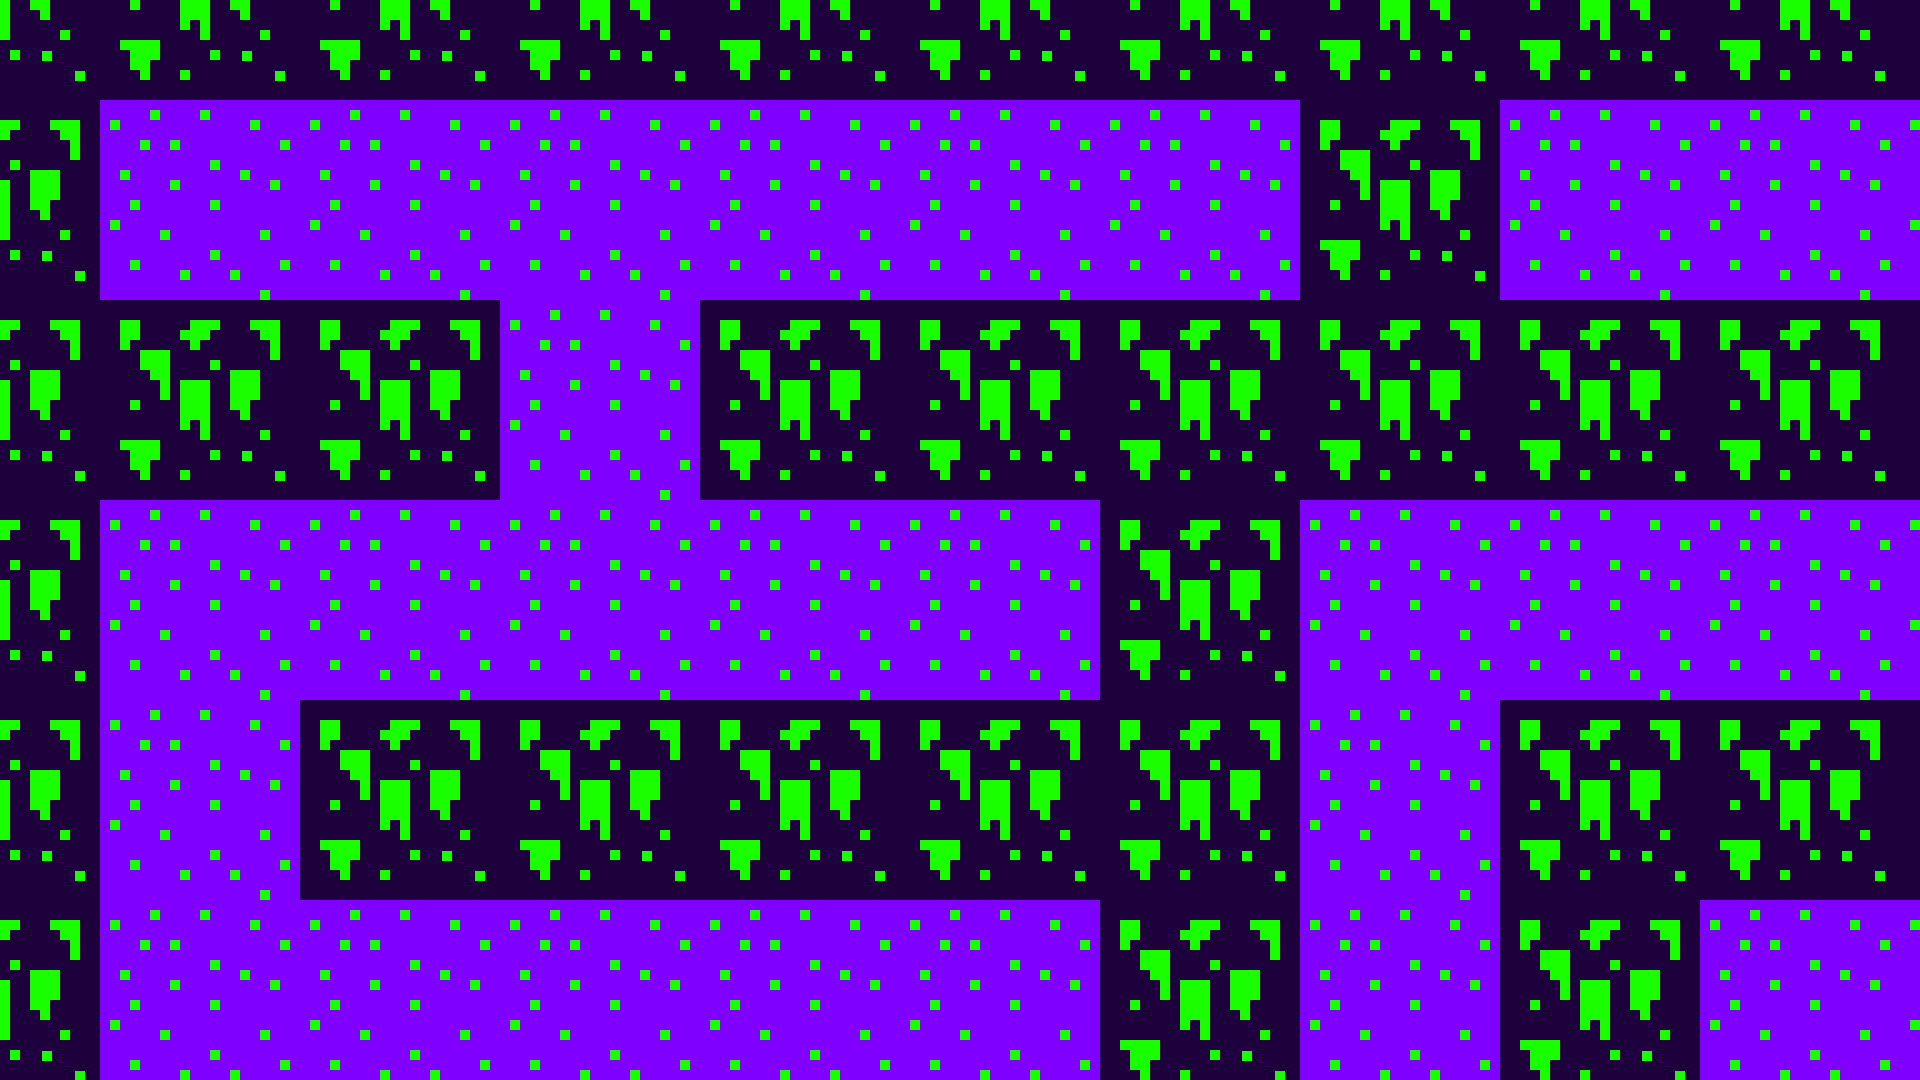
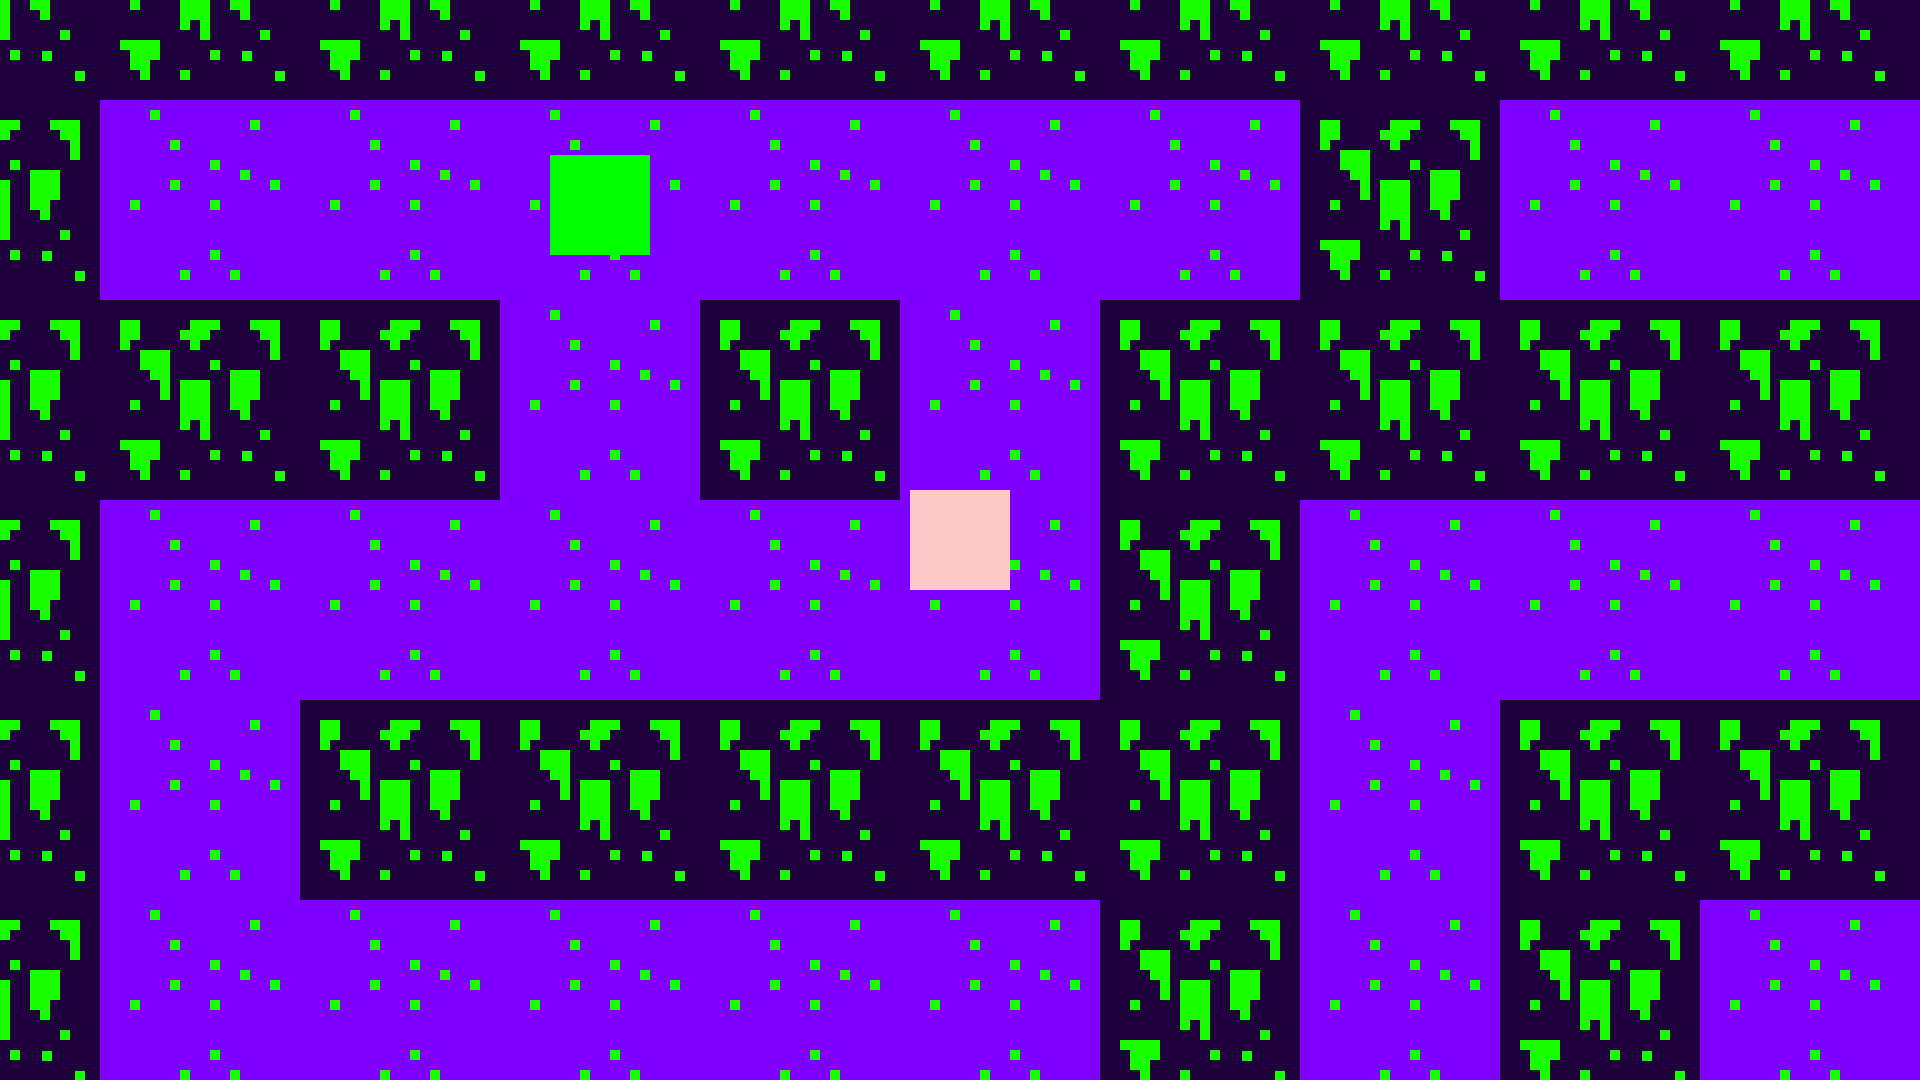
Specification 7-12

diff --git a/main.py b/main.py
@@ -1,17 +1,161 @@
 import pygame #Import the library
+from random import choice
 
 pygame.init() #Initialize pygame
 screen = pygame.display.set_mode((0, 0), pygame.FULLSCREEN) #Set the Display to the full screen
 running = True
 
+def exists(neighbourList, x, y, direction):
+    if 0 <= x < len(tileMap): #Perform a validation check to see if its properly within the grid
+        if 0 <= y < len(tileMap[x]):
+            if tileMap[x][y] == 0: #Check its neighbour is a path
+                neighbourList.append((x, y, direction)) #Add it to the list
+
+class Node:
+    def __init__(self, x, y):
+        self.id = (x, y) #Each Node has a unique identifier
+        self.neighbours = []
+        exists(self.neighbours, x + 1, y, "up") #Iterate though each of the 4 neighbours
+        exists(self.neighbours, x - 1, y, "down")
+        exists(self.neighbours, x, y + 1, "right")
+        exists(self.neighbours, x, y - 1, "left")
+
+    def giveNeighour(self):
+        return choice(self.neighbours)[2] #Returns the direction that is possible
+
+class Graph:
+    def __init__(self): #The graph acts as a collection of nodes
+        self.graph = []
+
+    def addNode(self, node): #Add nodes to the graph
+        self.graph.append(node)
+
+    def findNode(self, nodeID): #Locate node within the graph
+        for node in self.graph:
+            if node.id == nodeID:
+                return node
+
 class Tile(pygame.sprite.Sprite): #Create a Tile Object that inherits from pygame sprites
-    def __init__(self, isWall, x, y, filePath): #instantiate the class
+    def __init__(self, x, y, filePath): #instantiate the class
         super().__init__() #Inherits from the sprite object
         self.image = pygame.image.load(filePath).convert_alpha() #Creates a rectangular tile
         self.rect = self.image.get_rect(center = placeTile(x, y)) #Places the rectangle at (x, y)
+        self.velocity = 5
+
+    def update(self, dx, dy):
+        self.rect.x -= dx * self.velocity #updates x position
+        self.rect.y += dy * self.velocity #updates y position
 
 def placeTile(x, y):
     return (200 * x, 200 * y) #Adding one to x will place it 200 away (length of one tile)
+
+class Player(pygame.sprite.Sprite):
+    def __init__(self, x, y):
+        super().__init__()
+        self.image = pygame.Surface((100, 100))
+        self.image.fill((255, 200, 200))
+        self.rect = self.image.get_rect(center = (x, y))
+        self.isAttacking = False
+
+    def attack(self):
+        if not(self.isAttacking): #If we are not attacking already
+            self.attackBox = AttackBox(*self.rect.midleft) #Create an AttackBox
+            self.isAttacking = True #Now we are attacking
+            attackBoxGroup.add(self.attackBox)
+
+    def update(self):
+        if self.isAttacking: #If we are in an attack (the box exists)
+            flag = self.attackBox.update() #Update the attack box and return the state
+            if flag: #If we are given True, that means we need to kill the attack box
+                attackBoxGroup.remove(self.attackBox) #Delete the Box
+                del self.attackBox #Kills the attack box
+                self.isAttacking = False #Set the attack to False (allowing us to attack again)
+
+class AttackBox(pygame.sprite.Sprite): #Create an AttackBox, any enemy that collides with this will die
+    def __init__(self, x, y):
+        super().__init__()
+        self.image = pygame.Surface((20, 100))
+        self.image.fill((255, 255, 255)) #Fill for debugging purposes
+        self.rect = self.image.get_rect(midright = (x, y))
+        self.counter = 0 #Have a counter to check it in for 5 frames
+
+    def update(self):
+        self.counter += 1 #Increment the counter
+        if self.counter == 5: #When it reaches 5 (5 frames have passed)
+            return True #Tell the Player object to kill the attack box
+        else:
+            return False #Tell the Player not to kill the attack box
+
+class Enemy(pygame.sprite.Sprite):
+    def __init__(self, x, y, nodeID): #Instantiate Enemy Object
+        super().__init__()
+        self.image = pygame.Surface((100, 100))
+        self.image.fill((0, 255, 0))
+        self.rect = self.image.get_rect(center = (x, y))
+        self.velocity = 5
+        self.currentNode = nodeID
+        self.targetX = 0
+        self.targetY = 0
+        self.moved = False
+        self.move()
+
+    def update(self, dx, dy):
+        self.rect.x -= dx * self.velocity #updates x position
+        self.rect.y += dy * self.velocity #updates y position
+
+    def move(self):
+        if not(self.moved):
+            n = graph.findNode(self.currentNode) #Get the current node that the enemy is at
+            direction = n.giveNeighour() #Find next direction to travel in
+            if direction == "up":
+                self.targetX = -200 #Check each direction and set the target accordingly
+                self.currentNode = (self.currentNode[0] + 1, self.currentNode[1])
+            elif direction == "down":
+                self.targetX = 200
+                self.currentNode = (self.currentNode[0] - 1, self.currentNode[1])
+            elif direction == "right":
+                self.targetY = -200
+                self.currentNode = (self.currentNode[0], self.currentNode[1] + 1)
+            elif direction == "left":
+                self.targetY = 200
+                self.currentNode = (self.currentNode[0], self.currentNode[1] - 1) 
+
+            self.moved = True
+
+    def update2(self):
+        if self.targetX > 0: #Use this to travel towards the target position
+            self.rect.x -= 5
+            self.targetX -= 5
+        elif self.targetX < 0:
+            self.rect.x += 5
+            self.targetX += 5
+        elif self.targetY > 0:
+            self.rect.y -= 5
+            self.targetY -= 5
+        elif self.targetY < 0:
+            self.rect.y += 5
+            self.targetY += 5
+
+        if self.targetX == 0 and self.targetY == 0 and self.moved: #If we are at the target position
+            self.moved = False #Then find next node to travel to
+            self.move()
+
+def move(keys, key, x, y):
+    if keys[key]: #Check if key has been pressed
+        wallGroup.update(x, y) #Move the screen around the player
+        pathGroup.update(x, y)
+        enemyGroup.update(x, y)
+        if pygame.sprite.groupcollide(playerGroup, wallGroup, False, False):
+            wallGroup.update(-x, -y) #Move the screen back
+            pathGroup.update(-x, -y)
+            enemyGroup.update(-x, -y)
+'''
+def getSprites(sheet, x, y, width, height):
+    surface = pygame.Surface((width, height), pygame.SRCALPHA)
+    surface.blit(sheet, (0, 0), area=(x, y, width, height))
+
+    return surface
+'''
 
 tileMap = [
   [1, 1, 1, 1, 1, 1, 1, 1, 1, 1, 1, 1, 1, 1, 1, 1, 1, 1, 1, 1],
@@ -19,7 +163,7 @@ tileMap = [
   [1, 0, 1, 0, 1, 0, 1, 1, 1, 0, 1, 1, 0, 1, 0, 1, 0, 1, 0, 1],
   [1, 0, 0, 0, 1, 0, 1, 0, 0, 0, 0, 1, 0, 1, 0, 1, 0, 1, 0, 1],
   [1, 0, 1, 0, 1, 0, 1, 1, 0, 1, 0, 1, 0, 1, 0, 1, 1, 1, 0, 1],
-  [1, 0, 1, 0, 1, 0, 0, 1, 1, 1, 0, 1, 1, 0, 0, 1, 0, 0, 0, 1],
+  [1, 0, 0, 0, 1, 0, 0, 1, 1, 1, 0, 1, 1, 0, 0, 1, 0, 0, 0, 1],
   [1, 0, 1, 1, 1, 1, 0, 0, 0, 0, 0, 0, 1, 0, 1, 1, 0, 1, 0, 1],
   [1, 1, 1, 0, 0, 0, 1, 1, 1, 0, 1, 0, 0, 0, 0, 0, 0, 1, 0, 1],
   [1, 0, 1, 0, 1, 1, 1, 0, 1, 0, 1, 1, 0, 1, 1, 1, 1, 1, 0, 1],
@@ -38,19 +182,50 @@ tileMap = [
 
 wallGroup = pygame.sprite.Group() #Create sprite groups
 pathGroup = pygame.sprite.Group()
+enemyGroup = pygame.sprite.Group()
+playerGroup = pygame.sprite.GroupSingle()
+attackBoxGroup = pygame.sprite.GroupSingle()
+graph = Graph()
+
+#sheet = pygame.image.load("Textures\Slime Hill\Character\playerCharacter.png").convert_alpha()
+
+#playerImage = getSprites(sheet, 200, 0, 140, 190) 
 
 for row in range(len(tileMap)): #Iterate each row
     for column in range(len(tileMap[row])): #Iterate each column
         if tileMap[row][column] == 1: #Check if its a wall
-            wallGroup.add(Tile(tileMap[row][column], row, column, "Textures/Slime Hill/Biome/wall.png")) #Add a wall at that position to the wall group
+            wallGroup.add(Tile(row, column, "Textures/Slime Hill/Biome/wall.png")) #Add a wall at that position to the wall group
         else:
-            pathGroup.add(Tile(tileMap[row][column], row, column, "Textures/Slime Hill/Biome/floor.png")) #Else add a path at that position
+            graph.addNode(Node(row, column))
+            pathGroup.add(Tile(row, column, "Textures/Slime Hill/Biome/floor.png")) #Else add a path at that position
+
+player = Player(960, 540) 
+playerGroup.add(player)
+
+enemy1 = Enemy(200, 200, (1, 1))
+enemyGroup.add(enemy1)
 
 while running: #Create the game loop
     screen.fill((25, 25, 25))
 
+    keys = pygame.key.get_pressed() #Call keys here, so its only called once
+
+    if keys[pygame.K_k]:
+        player.attack()
+
+    move(keys, pygame.K_w, 0, 1) #Pass Keys as a parameter for effieceny
+    move(keys, pygame.K_s, 0, -1)
+    move(keys, pygame.K_d, 1, 0)
+    move(keys, pygame.K_a, -1, 0)
+
+    playerGroup.update()
+    enemy1.update2()
+
     wallGroup.draw(screen)
     pathGroup.draw(screen)
+    playerGroup.draw(screen)
+    enemyGroup.draw(screen)
+    attackBoxGroup.draw(screen)
 
     pygame.display.flip() #Updates and controls the game
 
